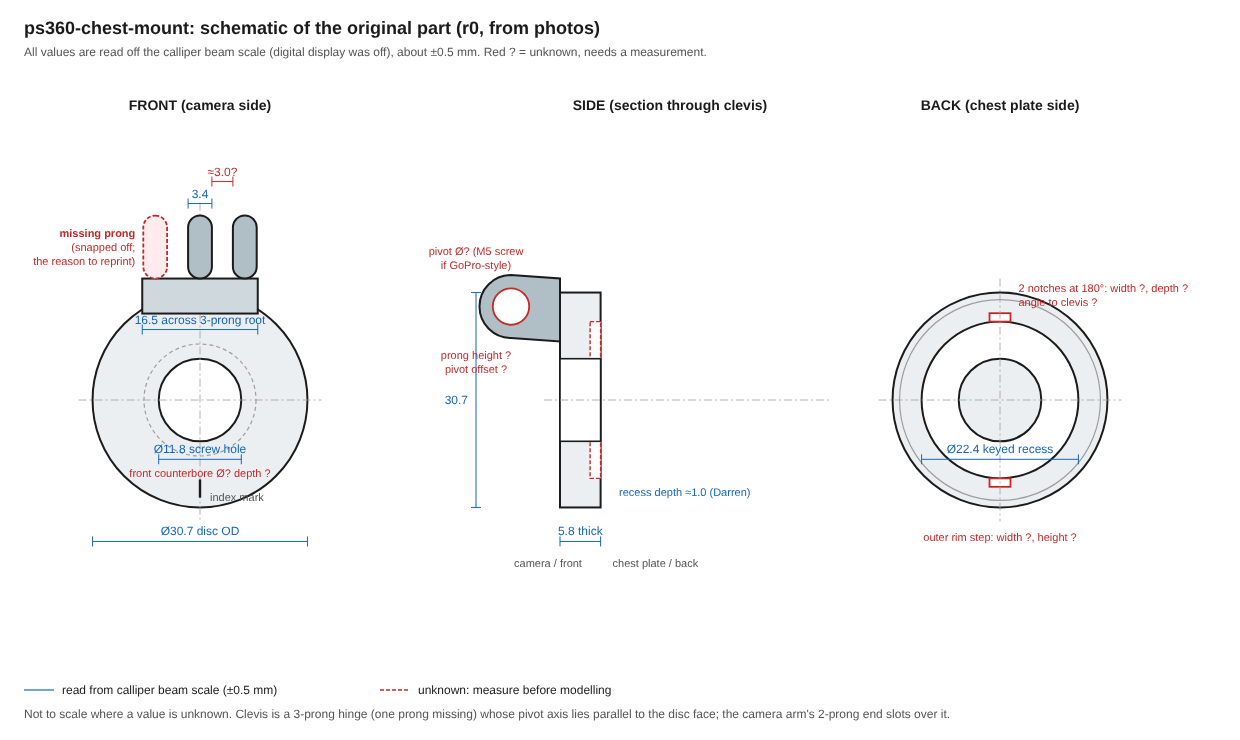
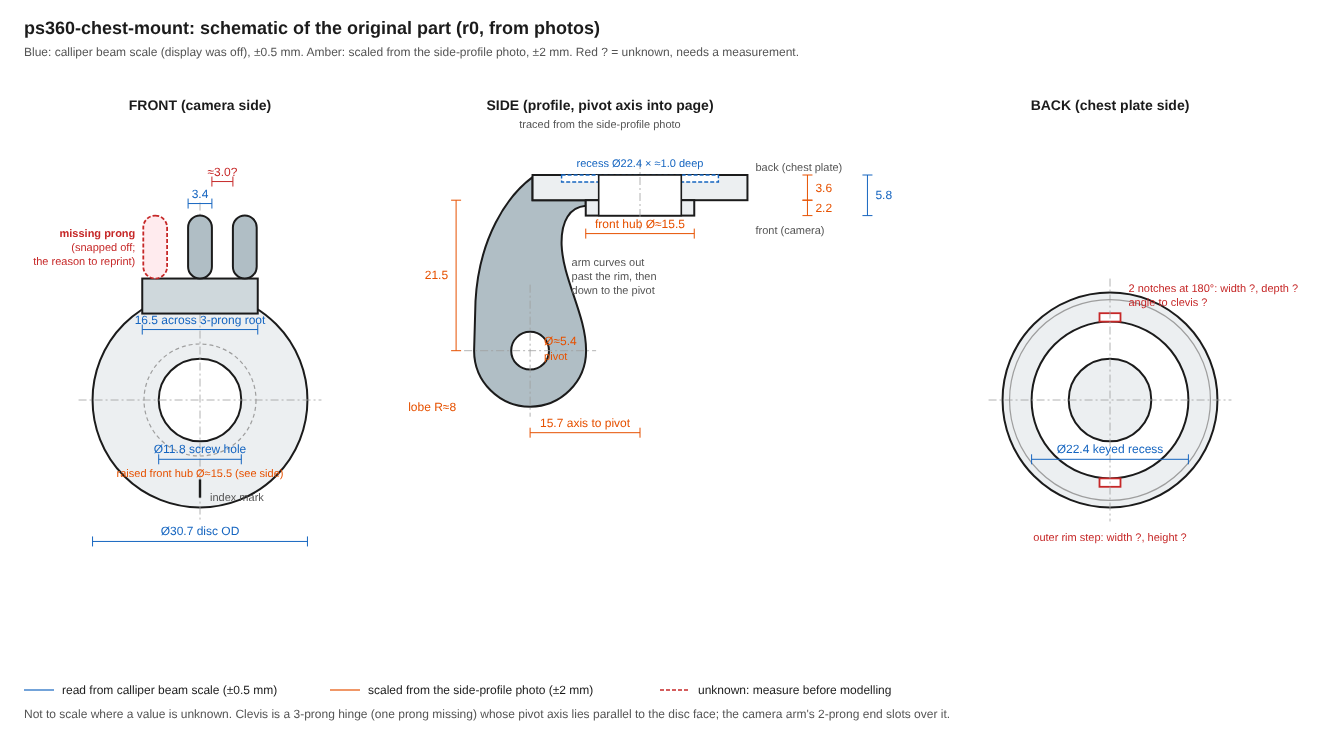
ps360-chest-mount: add side profile of the clevis arm to the schematic
Traces the arm from Darren's side-profile photo and records the pivot
position, lobe radius and front hub as photo-scaled estimates.

Claude-Session: https://claude.ai/code/session_01Lzt8z48L4KBDS1M8c9peQx

diff --git a/designs/ps360-chest-mount/brief.md b/designs/ps360-chest-mount/brief.md
@@ -33,6 +33,7 @@ re-measure.
 | back-face-close-up-outer-rim-lip-1-mm-ke | Back face close-up | None (shows the rim lip, recess step and notch steps) |
 | back-face-outer-rim-keyed-recess-with-tw | Back face: outer rim step, keyed recess, two notches 180° apart | None (no scale) |
 | insta360-chest-strap-the-part-sits-on-th | Product photo of the chest strap | None (shows how the part sits on the chest plate) |
+| side-profile-clevis-arm-curves-from-the- | Side profile of the clevis arm and disc | Calliper scale too blurred to read. Arm shape, pivot position, lobe radius, plate and hub split scaled from the 30.7 mm disc in frame, ±2 mm |
 
 ## Requirements
 
@@ -46,13 +47,15 @@ re-measure.
 | Recess keys: two notches at 180° | width, depth unknown | photo, count only |
 | Angle of the notches relative to the clevis | unknown | |
 | Outer rim step on the back face | width, height unknown | photo, shape only |
-| Front counterbore around the hole (screw head seat) | Ø, depth unknown; may not exist | photo, faint |
+| Disc plate thickness / raised front hub | plate ≈ 3.6 mm + hub Ø ≈ 15.5 × ≈ 2.2 mm (sums to the 5.8 total) | scaled from side-profile photo, ±2 |
 | Width across the 3-prong root | 16.5 mm (measured across the broken prong's stub) | calliper beam scale, ±0.5 |
 | Clevis: **3 prongs** (one missing), pivot axis parallel to the disc face | count | Darren |
 | Prong thickness (each of the 3) | 3.4 mm | calliper beam scale on a surviving prong, ±0.5 |
 | Gap between prongs (2 gaps) | ≈ 3.0 mm; 3 × 3.4 + 2 × 3.0 = 16.2 fits the 16.5 root | scaled from a photo, estimate |
-| Pivot hole Ø | unknown (≈5.2 mm for an M5 thumbscrew if GoPro-standard) | |
-| Prong outer radius, pivot height above the front face, pivot offset from disc centre | unknown | |
+| Pivot hole Ø | ≈ 5.4 mm (GoPro-standard is ≈ 5.2 for the M5 thumbscrew) | scaled from side-profile photo, ±2 |
+| Arm profile | leaves the disc rim, curves outward past the rim, then down to the pivot lobe, with a large inside fillet to the front hub (see schematic side view) | side-profile photo |
+| Pivot position | ≈ 15.7 mm from the disc axis (about at the rim), ≈ 21.5 mm in front of the plate's front face | scaled from side-profile photo, ±2 |
+| Prong lobe outer radius | ≈ 8 mm | scaled from side-profile photo, ±2 |
 | Front index mark (small slot on the rim opposite the clevis) | cosmetic, size not needed | photo |
 
 ## Mating parts and fits
@@ -100,10 +103,10 @@ Each becomes a `PARAMS` entry so a print can settle it.
 2. Recess depth to ±0.1 (Darren estimates 1 mm), notch width and depth, and the notch
    angle relative to the clevis.
 3. Outer rim step on the back: width and height.
-4. Is there a counterbore on the front for the screw head? Diameter and depth.
-5. Clevis: gap between the two surviving prongs (calliper on it), pivot hole Ø, prong
-   outer radius, pivot height above the front face, and pivot distance from the disc
-   centre.
+4. Front hub: diameter and height with the calliper (photo gives Ø≈15.5 × 2.2).
+5. Clevis: gap between the two surviving prongs (calliper on it), pivot hole Ø, and
+   with the calliper display on: pivot height from the front face and pivot distance
+   from the disc edge (the side-profile values are ±2 mm).
 6. The camera arm's 2-prong end: its gap and prong thickness, so the replacement's
    gaps are sized to the arm rather than to the worn original.
 7. A photo of the chest plate with the part removed, and of the connector screw (head Ø
